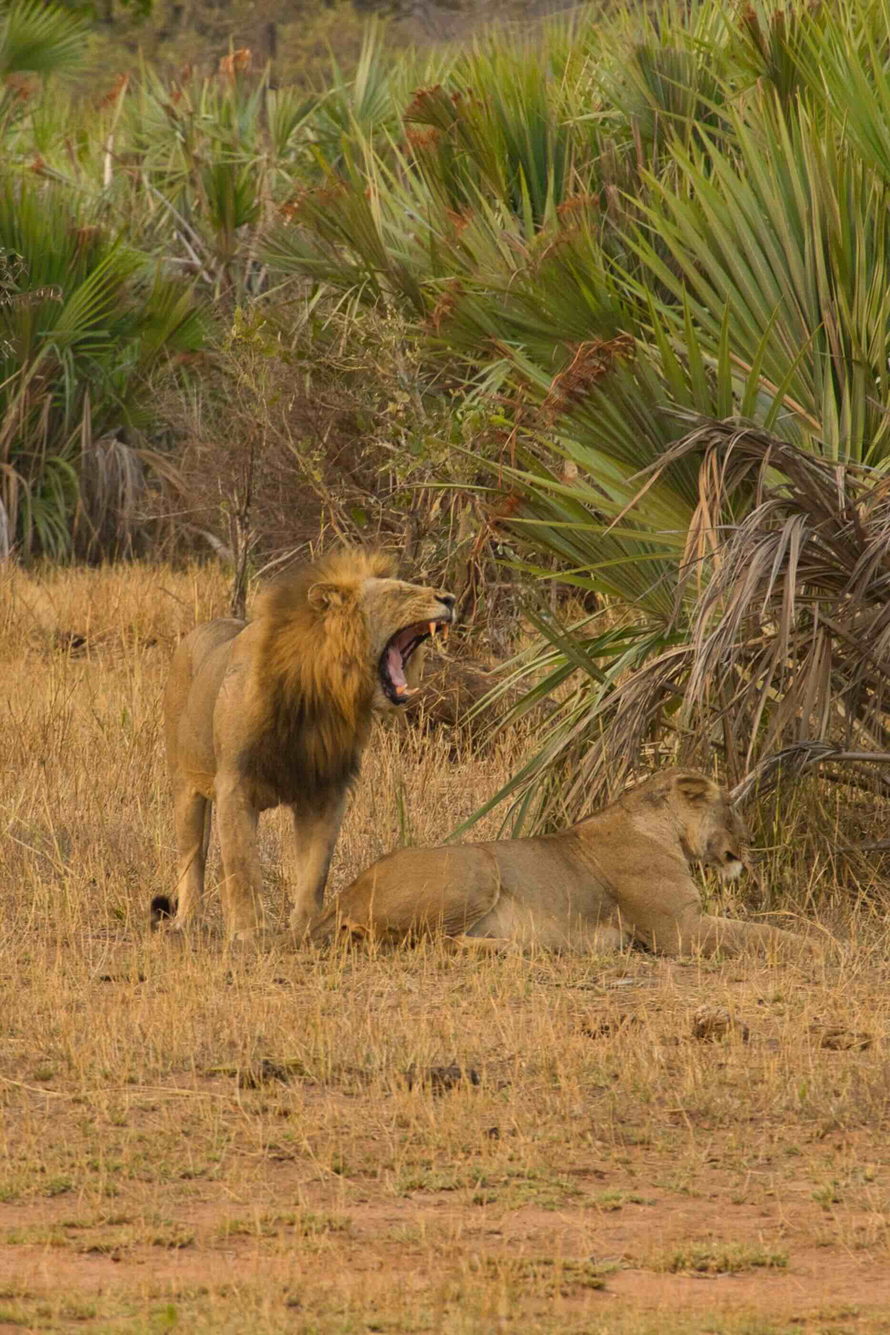
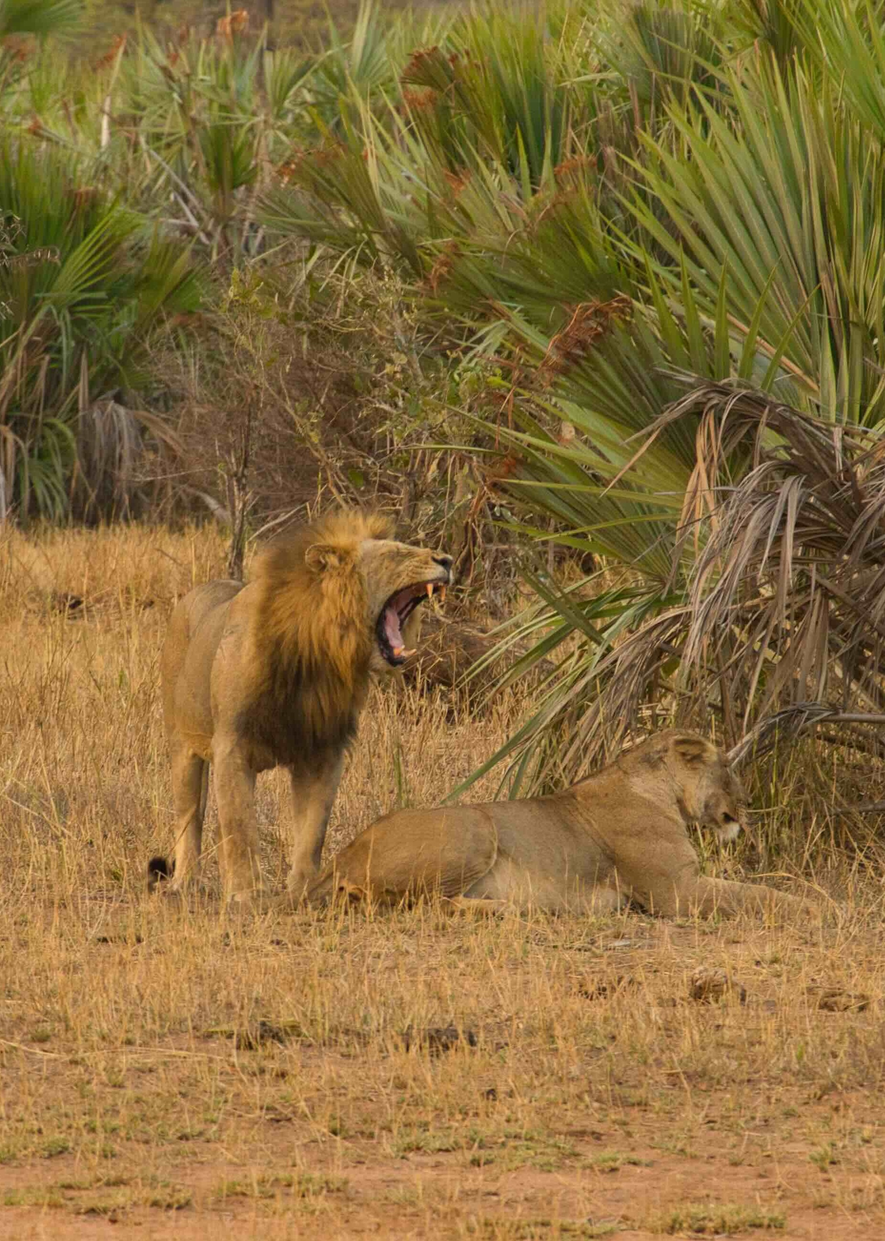
add related posts carousel to the bottom of posts

diff --git a/app/components/blog/related-post.tsx b/app/components/blog/related-post.tsx
@@ -1,0 +1,52 @@
+import Image from "next/image";
+import Link from "next/link";
+import { ReactNode } from "react";
+
+interface RelatedPostProps {
+  href: string;
+  title: string;
+  image?: string;
+}
+
+interface RelatedPostsProps {
+  children: ReactNode;
+}
+
+export function RelatedPosts({ children }: RelatedPostsProps) {
+  return (
+    <div className="not-prose my-8 rounded-lg bg-gray-100 p-6">
+      <span className="block mb-4 font-playfair text-xl font-bold text-gray-800">
+        Related Posts
+      </span>
+      <div className="grid grid-cols-1 sm:grid-cols-2 gap-4">{children}</div>
+    </div>
+  );
+}
+
+export function RelatedPost({ href, title, image }: RelatedPostProps) {
+  return (
+    <Link
+      href={href}
+      className="flex flex-col rounded-lg border border-gray-200 bg-white hover:bg-gray-50 hover:border-gray-300 transition-colors overflow-hidden group !no-underline hover:!no-underline"
+    >
+      {image && (
+        <div className="relative w-full aspect-video overflow-hidden">
+          <Image
+            src={image}
+            alt={title}
+            fill
+            className="object-cover group-hover:scale-105 transition-transform duration-300"
+          />
+        </div>
+      )}
+      <div className="p-3 flex items-center justify-between gap-2">
+        <span className="text-sm font-medium text-foreground line-clamp-2">
+          {title}
+        </span>
+        <span className="text-gray-400 group-hover:text-gray-600 transition-colors flex-shrink-0">
+          →
+        </span>
+      </div>
+    </Link>
+  );
+}

diff --git a/app/components/blog/video-link.tsx b/app/components/blog/video-link.tsx
@@ -30,7 +30,7 @@ export function VideoLink({ url, title }: VideoLinkProps) {
   }
 
   return (
-    <div className="my-6 p-4 rounded-lg bg-gray-100">
+    <div className="relative my-6 p-4 rounded-lg bg-gray-100">
       <Link
         href={url}
         target="_blank"
@@ -63,6 +63,15 @@ export function VideoLink({ url, title }: VideoLinkProps) {
           <span className="text-m text-[#8586A9]">Watch on YouTube →</span>
         </div>
       </Link>
+      <div className="absolute bottom-3 right-3 pointer-events-none">
+        <Image
+          src="/icons/trail-tales-logo.png"
+          alt="Trail Tales"
+          width={65}
+          height={65}
+          className="rounded-sm opacity-90"
+        />
+      </div>
     </div>
   );
 }

diff --git a/app/components/blog/mdx.tsx b/app/components/blog/mdx.tsx
@@ -10,6 +10,7 @@ import { ImageGrid2Mixed } from "./image-grid-2-mixed";
 import { ImageSingle } from "./image-single";
 import { VideoLink } from "./video-link";
 import { MapEmbed } from "./map-embed";
+import { RelatedPost, RelatedPosts } from "./related-post";
 
 function Table({ data }: any) {
   let headers = data.headers.map((header: any, index: number) => (
@@ -105,6 +106,8 @@ let components = {
   ImageSingle,
   VideoLink,
   MapEmbed,
+  RelatedPost,
+  RelatedPosts,
 };
 
 export async function CustomMDX(props: any) {

diff --git a/app/components/blog/youtube-promo.tsx b/app/components/blog/youtube-promo.tsx
@@ -2,7 +2,7 @@ import Image from "next/image";
 import Link from "next/link";
 
 const CHANNEL_URL = "https://www.youtube.com/@trailtalestravel";
-const SUBSCRIBER_COUNT = "1,590";
+const SUBSCRIBER_COUNT = "1,610";
 const FEATURED_VIDEO = {
   id: "SC_GlDGKX7U",
   title: "Most Popular Video",
